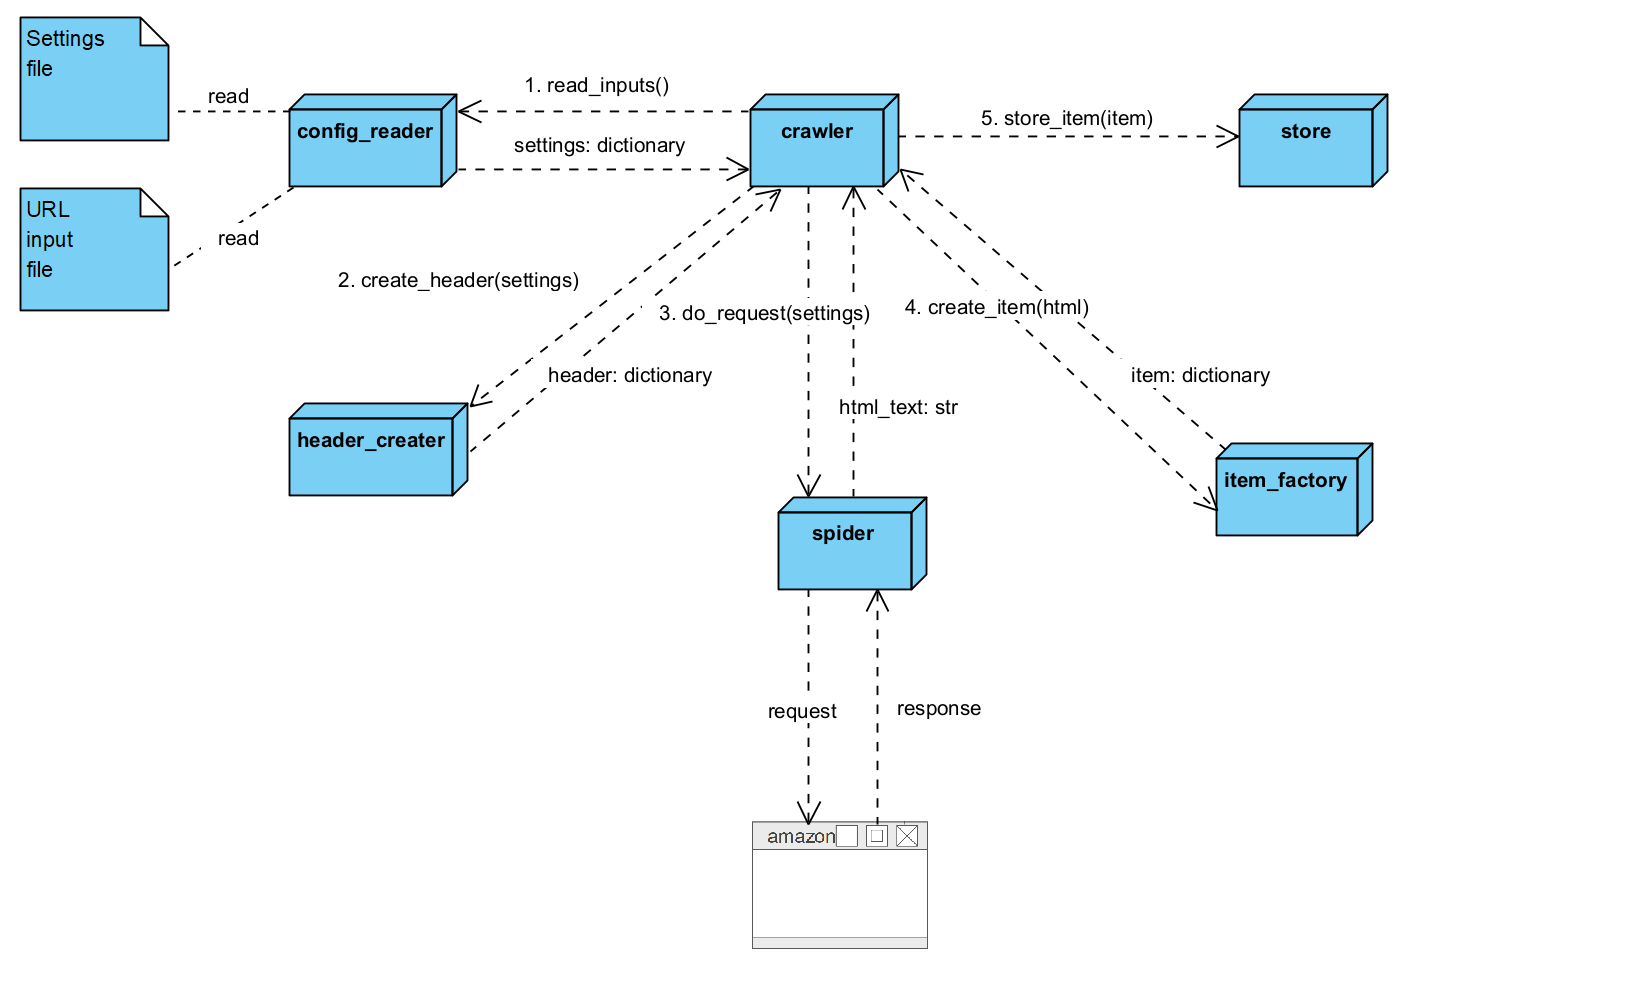
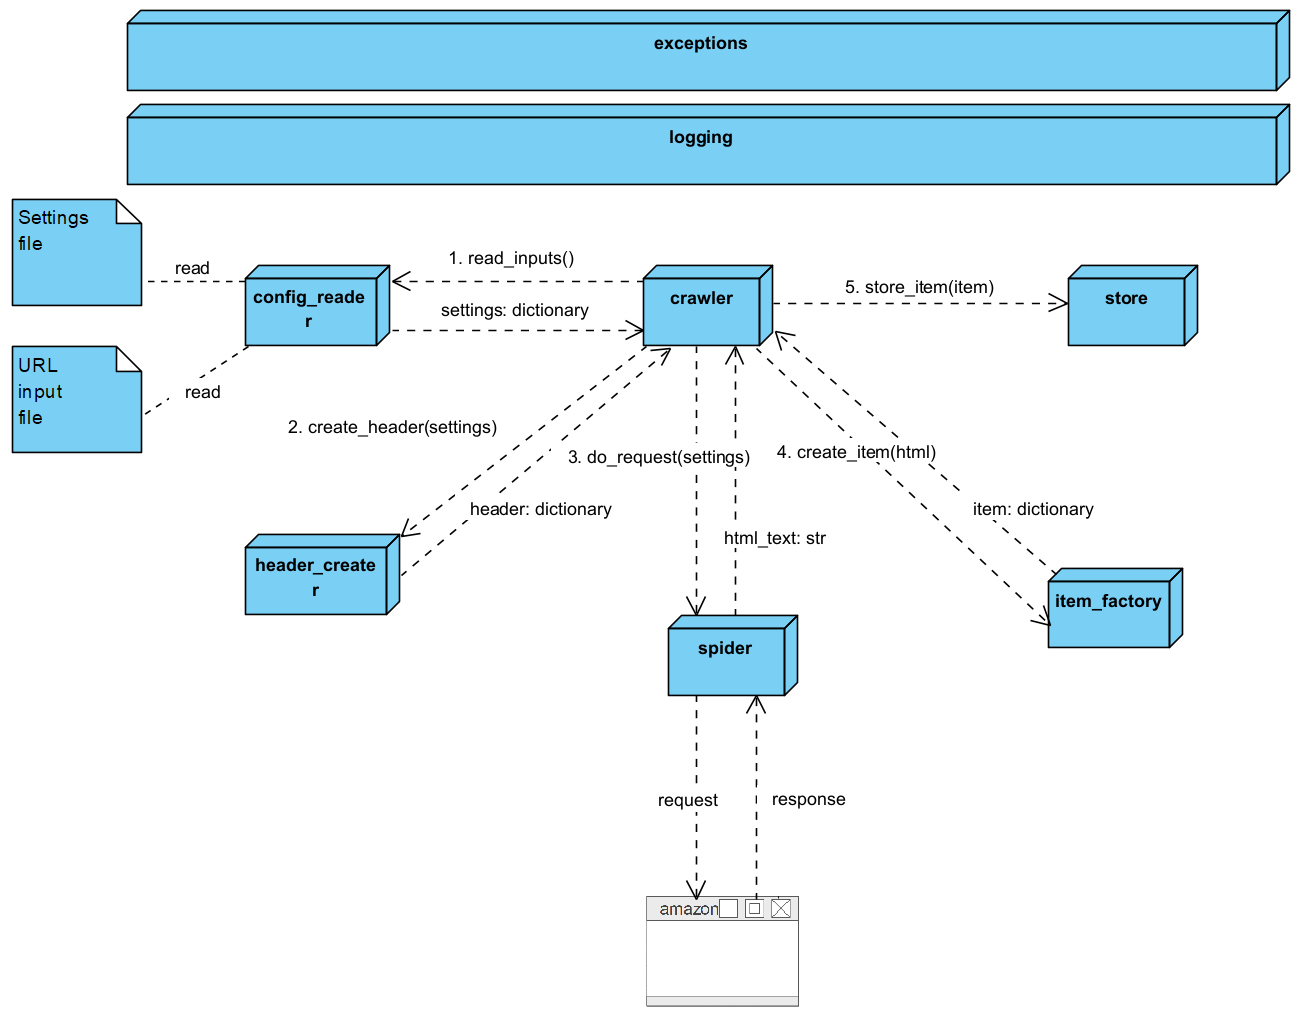
Issue#67: Extension of the architecture and README.md files with the modules logging and exceptions

diff --git a/README.md b/README.md
@@ -72,3 +72,6 @@ The goal for this module is to detect whether you are on a local machine or in a
 environment variables. The correct storage method is then automatically selected either as a 
 csv file (local) or in an S3 bucket (AWS).
 
+## logging and exceptions
+The logging and exceptions modules are used across the entire project. 
+
